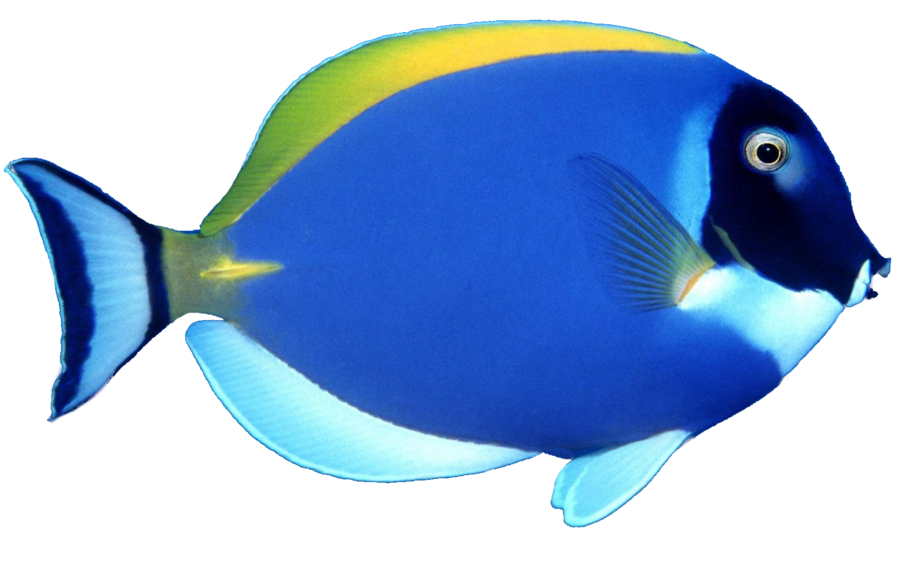
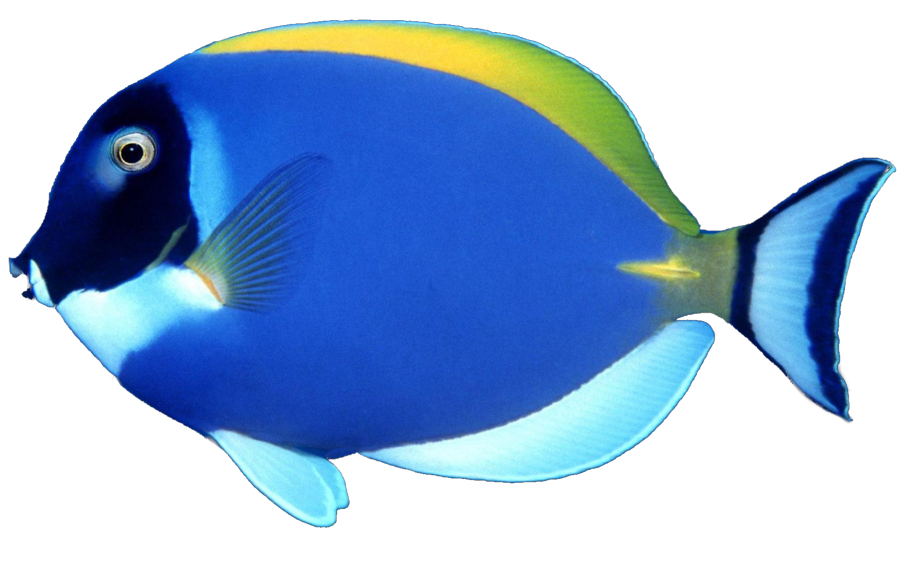
Moving fish tank

diff --git a/client/app/directives/fishbowl.js b/client/app/directives/fishbowl.js
@@ -8,31 +8,68 @@ angular.module('youAreAFishApp').directive('fishbowl',['$compile','$interval',fu
         restrict: 'A',
         templateUrl: 'app/tpl/fishbowl-tpl.html',
         link: function(scope,element){
-            scope.nodes = [
-                {"name": "foo", x: 50, y: 50, image:'/assets/images/fishes/fish_1.png'},
-                {"name": "bar", x: 100, y: 100, image:'/assets/images/fishes/fish_1.png'}
-            ];
-            scope.moveDots = function(){
-                for(var n = 0; n < $scope.nodes.length; n++){
-                    var node = $scope.nodes[n];
-                    node.x = Math.random() * 200 + 20;
-                    node.y = Math.random() * 200 + 20;
-                }
-            }
-            var mySvg = d3.select(element[0])
-            .append("svg")
-            .attr("width", 250)
-            .attr("height", 250);
+            var width = 512,
+                height= 285,
+                maxVelocity = 5,
+                fishes=[],
+                noOfFishes = 5,
+                tankWidth = width+80,
+                tankHeight =height+80;
 
-            var fishes = mySvg.selectAll("image")
-            .data(scope.nodes)
+            var randomWithCeil = function(num){
+                return Math.ceil(Math.random()*num);
+            };
+
+
+            var fish = function(){
+                var fishPicNo = randomWithCeil(3);
+                this.image = '/assets/images/fishes/fish_' + fishPicNo + '.png';
+                this.imageFlip = '/assets/images/fishes/fish_' + fishPicNo + '_flipped.png';
+
+                this.y = randomWithCeil(height);
+                this.x = randomWithCeil(width);
+
+                this.vx = randomWithCeil(maxVelocity);
+                this.vy = randomWithCeil(maxVelocity);
+                this.v = this.vy/this.vx;
+
+                this.msg = "";
+            };
+
+
+            for (var i = 0; i < noOfFishes+1; i++){
+                var thisFish = new fish();
+                fishes.push({
+                    msg: thisFish.msg,
+                    x: thisFish.x,
+                    y: thisFish.y,
+                    vx: thisFish.vx,
+                    vy: thisFish.vy,
+                    v: thisFish.v,
+                    image: thisFish.image,
+                    imageFlip: thisFish.imageFlip
+                });
+            } 
+
+            var mySvg = d3.select('#fishbowl')
+            .append("svg")
+            .attr("width", tankWidth)
+            .attr("height", tankHeight);
+
+            mySvg.append("image")
+            .attr("xlink:href","/assets/images/fishtank.jpg")
+            .attr("width","100%")
+            .attr("height","100%");
+
+            var fishNodes = mySvg.selectAll("image")
+            .data(fishes)
             .enter()
             .append("svg:image")
-            .attr("xlink:href",function(d){return d.image;})
+            .attr("xlink:href",function(d){return d.imageFlip;})
             .attr("x", function(d,i){return d.x;})
             .attr("y", function(d,i){return d.y;})
-            .attr("width", 100)
-            .attr("height",100)
+            .attr("width", "10%")
+            .attr("height","10%")
             .attr("tooltip-append-to-body", true)
             .attr("tooltip", function(d){
                 return d.name;
@@ -44,15 +81,34 @@ angular.module('youAreAFishApp').directive('fishbowl',['$compile','$interval',fu
 
 
             scope.moveFishes= function() {
-                fishes.attr("x", function(d) { d.x+= 1; return d.x; })
-                .attr("y", function(d) { d.y+=1; return d.y; });
+                fishNodes.attr("x", function(d) { 
+                    if (d.x >= width || d.x <= 0){
+                        d.vx = -d.vx;
+                    }
+                    d.x+= d.vx; 
+                    return d.x; 
+                })
+                .attr("y", function(d) { 
+                    if (d.y >= height || d.y <= 0){
+                        d.vy = -d.vy;
+                    }
+                    d.y+=d.vy; 
+                    return d.y; 
+                })
+                .attr("xlink:href",function(d){
+                    if (d.vx > 0){
+                        return d.imageFlip;
+                    } else {
+                        return d.image;
+                    };
+                });
             };
 
             $interval(scope.moveFishes(), 30); 
             var textAnim;
             var intervalPeriod = 100;
             textAnim = $interval(function (index) {
-                    scope.moveFishes();
+                scope.moveFishes();
             }, intervalPeriod);
 
 

diff --git a/client/app/app.less b/client/app/app.less
@@ -15,6 +15,24 @@
     padding: 0.2em 0;
 }
 
+.image-flip{
+    -moz-transform: scaleX(-1);
+    -o-transform: scaleX(-1);
+    -webkit-transform: scaleX(-1);
+    transform: scaleX(-1);
+    filter: FlipH;
+    -ms-filter: "FlipH"; 
+}
+
+.image-org{
+    -moz-transform: scaleX(1);
+    -o-transform: scaleX(1);
+    -webkit-transform: scaleX(1);
+    transform: scaleX(1);
+    filter: FlipH;
+    -ms-filter: "FlipH"; 
+}
+
 // injector
 @import 'main/main.less';
 @import 'modal/modal.less';

diff --git a/client/app/main/main.html b/client/app/main/main.html
@@ -1,6 +1,3 @@
-<div ng-include="'components/navbar/navbar.html'"></div>
-
-
 <div class="container">
     <div fishbowl></div>
 

diff --git a/client/app/tpl/fishbowl-tpl.html b/client/app/tpl/fishbowl-tpl.html
@@ -1,3 +1,2 @@
 <div id="fishbowl">
 </div>
-<input type="button" ng-click="moveFishes()"></input>
